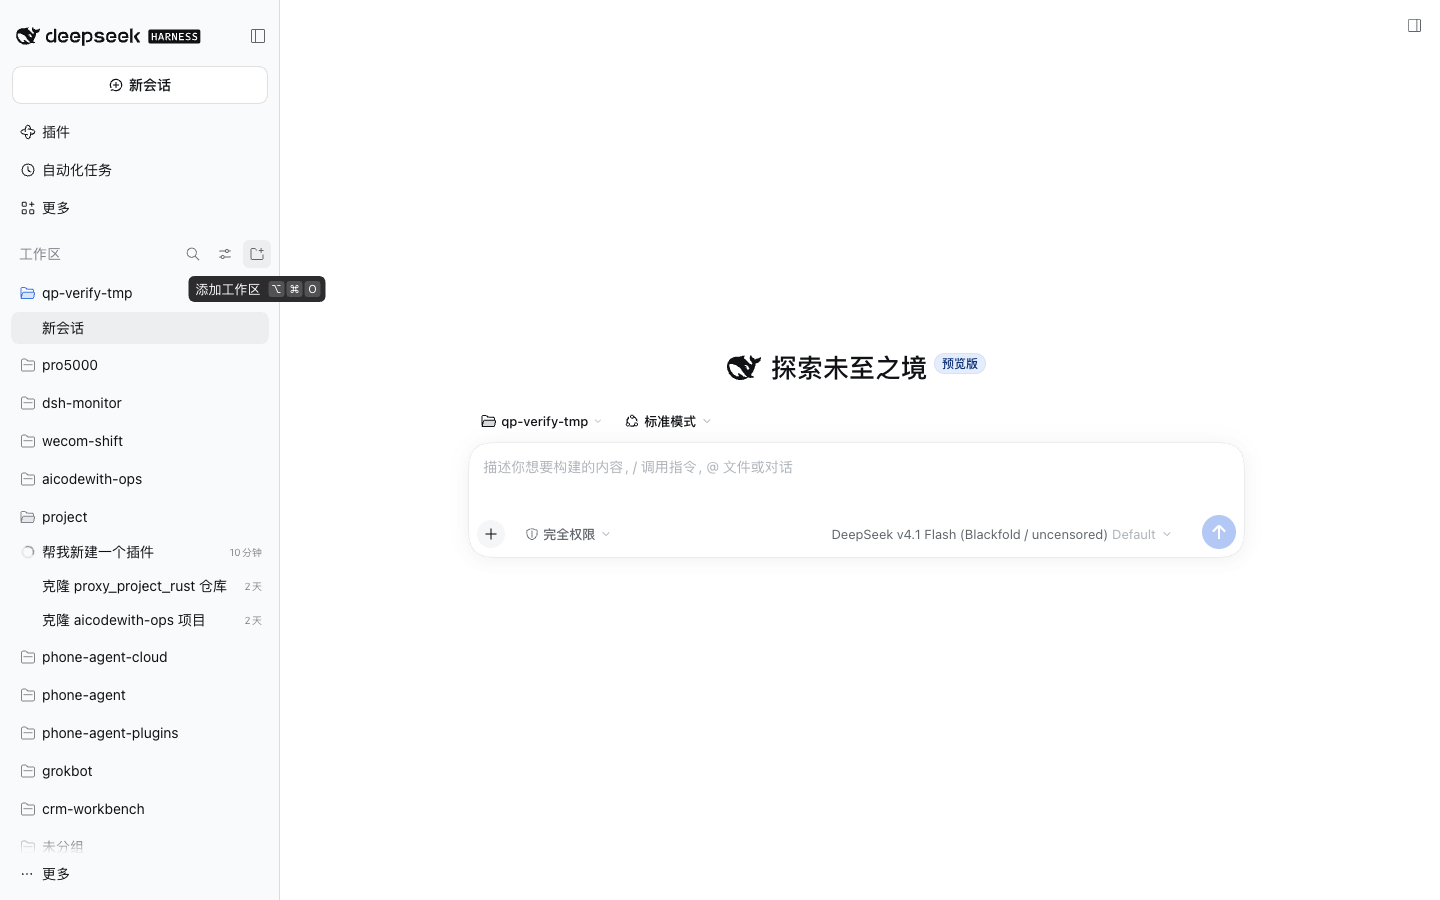
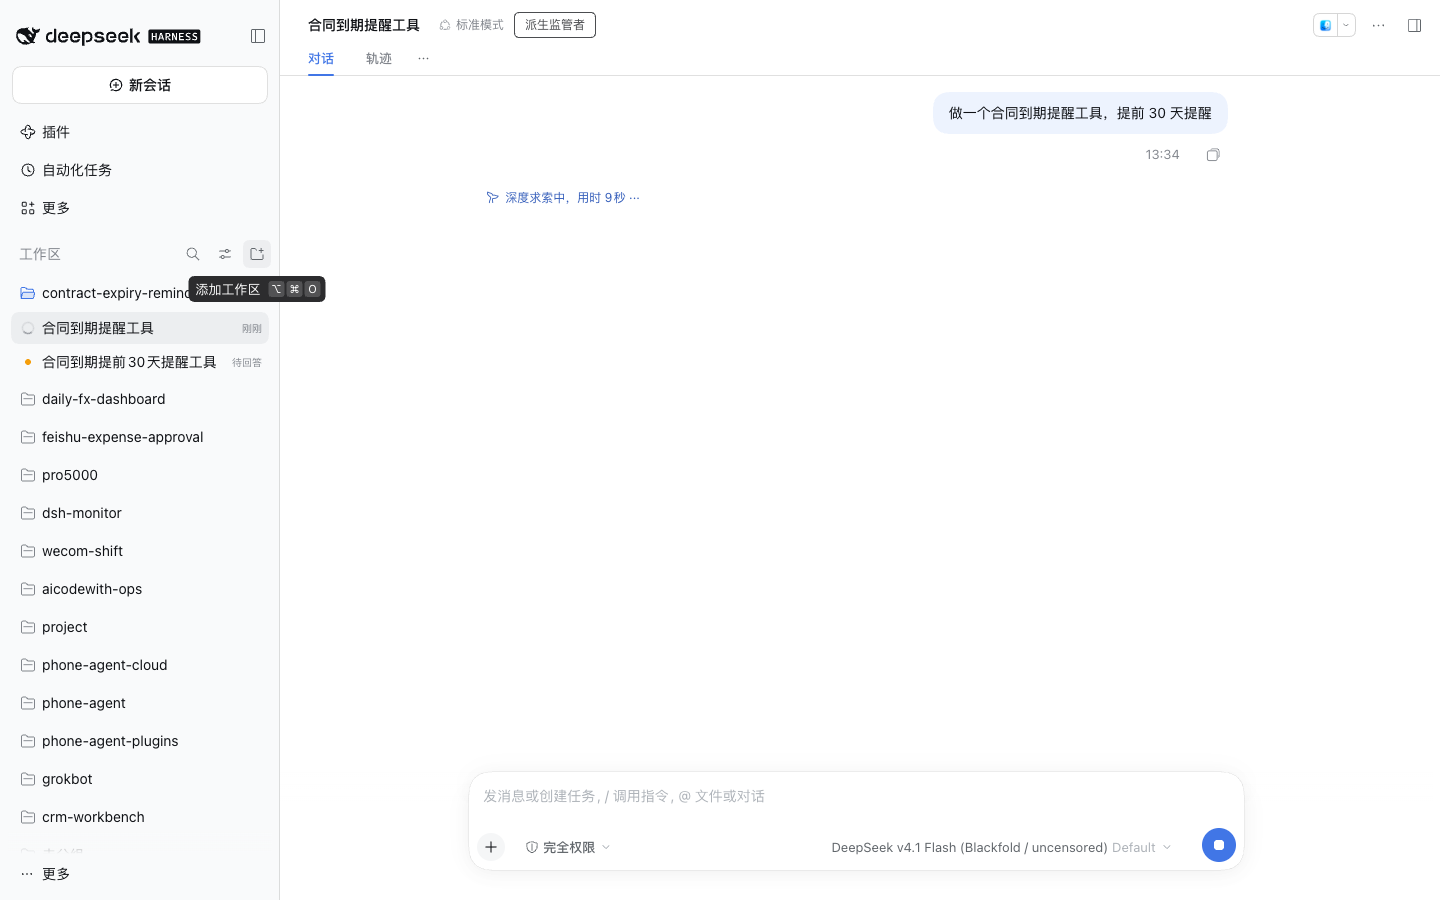
Docs: show the description field and a Session it started

diff --git a/README.md b/README.md
@@ -4,6 +4,14 @@
 
 原来的路径是：点 + → 目录树里一层层翻到 `~/project` → 新建文件夹 → 返回 → 找出来 → 再把手里的需求重打一遍。这个插件把它压成「打一段话 → 回车」。
 
+## 长什么样
+
+![描述需求，自动取名](docs/dialog.png)
+
+回车之后：文件夹建好、工作区打开、需求已经发出去。
+
+![已经开干的会话](docs/opened.png)
+
 ## 用法
 
 | 动作 | 结果 |
